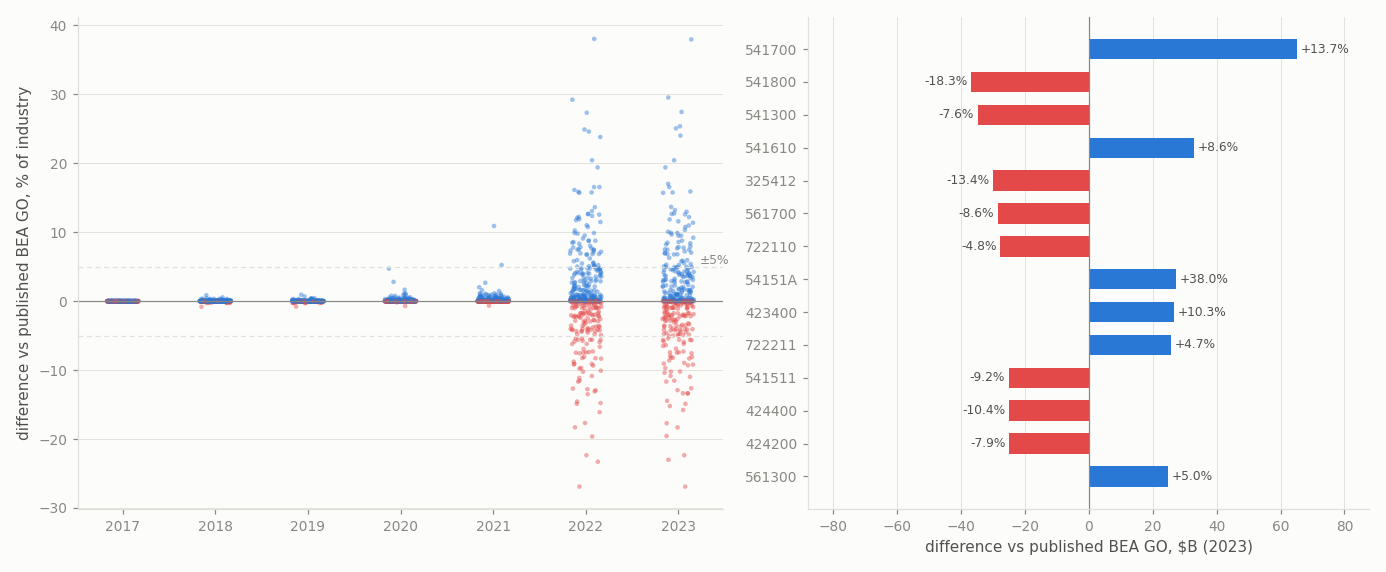
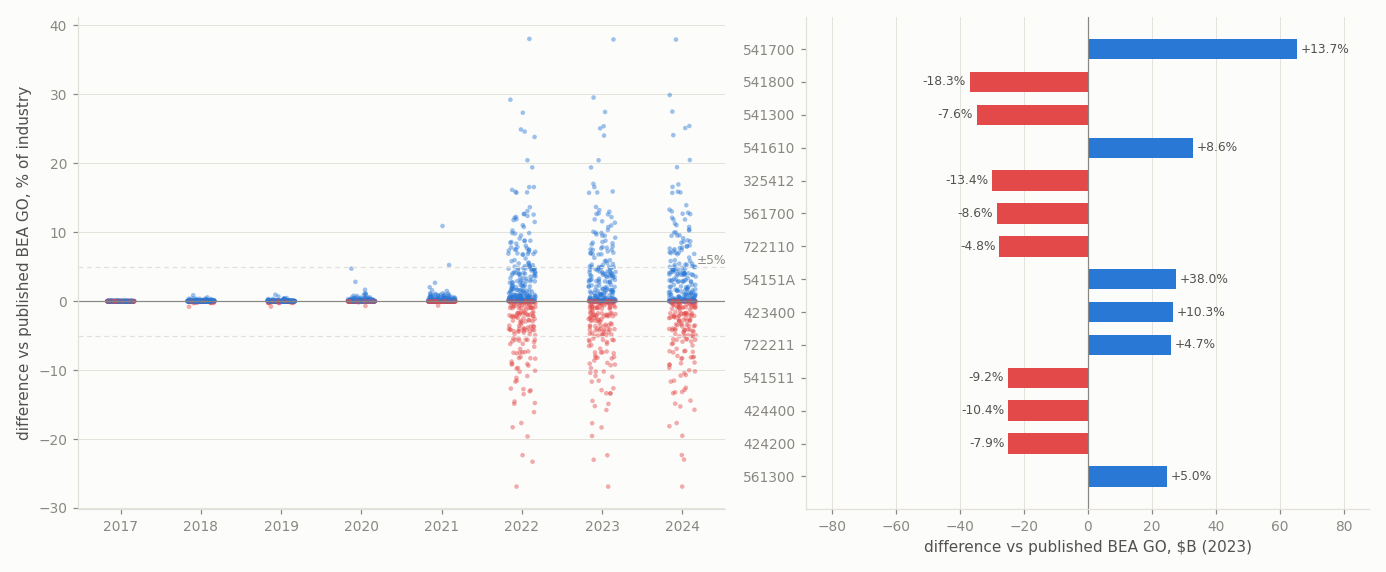
docs(report): carry the Phase 1 report through 2024
The span the report describes is now 2017-2024. Every number here is
measured, not carried: the two section-year spans that bounded the
diagnostics at 2023 are lifted, and the figures and tables are regenerated.

Section 2, the annual comparison to the published summary tables, gains 2024
and two figures. Supply lands at 98.4% coverage and 36.3% accuracy against
2023's 98.4% and 35.9%; Use at 98.7% and 6.2% against 98.6% and 6.3%; grand
totals off by 0.017% and 0.015%. The newest year is the strongest evidence
that 2022's ~1% spread was census conditioning rather than drift - 2024 sits
two years further from the anchor and lands at a sixtieth of 2022's total
difference.

Section 3, industry output, gains 2024 and its figure is regenerated to
include the year. The weighted difference is 2.10% against 2023's 2.11%, and
the named industries are the same ones in the same direction: scientific R&D
+13.9%, advertising -18.1%, architectural and engineering -7.4%,
pharmaceutical preparations -13.3%, other computer services +38.0%. A gap
that keeps its size and its members across three years is a standing
disagreement about the detail mix, not an accumulating error - which is the
distinction the final column of that table exists to make, and against the
census-conditioned panel 2024 sits at 0.06%.

Section 4's production-gate row now reads seven years rather than six.

Section 7 records what closed the span and what it cost: the 2024 AIES was
[…]

diff --git a/bedrock/analysis/nowcasting/sections.py b/bedrock/analysis/nowcasting/sections.py
@@ -1128,11 +1128,11 @@ SUPPLY_SUMMARY_SUT = Section(
     row_axis='summary_commodity',
     column_axis='summary_industry_or_bridge',
     tolerance=Tolerance(rtol=0.01, atol=ROUNDING_ATOL, ramp=0.25),
-    years=tuple(range(2017, 2024)),
+    years=tuple(range(2017, 2025)),
     reference=summary_supply_sut_reference,
     candidate=summary_supply_candidate,
     note=(
-        'Annual, 2017-2023: the newest balanced detail Supply on disk, rolled '
+        'Annual, 2017-2024: the newest balanced detail Supply on disk, rolled '
         'up on the taxonomy crosswalks, against the published summary Supply '
         'for the same year. The balance held its own observed aggregates, not '
         'every published summary cell, so close-not-exact is the expectation '
@@ -1149,11 +1149,11 @@ USE_SUMMARY_SUT = Section(
     row_axis='summary_commodity_or_va',
     column_axis='summary_industry_or_fd',
     tolerance=Tolerance(rtol=0.01, atol=ROUNDING_ATOL, ramp=0.25),
-    years=tuple(range(2017, 2024)),
+    years=tuple(range(2017, 2025)),
     reference=summary_use_sut_reference,
     candidate=summary_use_candidate,
     note=(
-        'Annual, 2017-2023: the newest balanced detail Use SUT on disk, '
+        'Annual, 2017-2024: the newest balanced detail Use SUT on disk, '
         'rolled up on the taxonomy crosswalks (final demand by its four-'
         'character summary code, value added onto the workbook codes), '
         'against the published summary Use SUT. Both sides carry the '

diff --git a/bedrock/analysis/nowcasting/go_vs_nowcast_mut.py b/bedrock/analysis/nowcasting/go_vs_nowcast_mut.py
@@ -37,7 +37,7 @@ from bedrock.transform.iot.derived_intermediate_and_value_added import (
 from bedrock.utils.config.settings import FBS_DIR
 
 _B = 1e9
-YEARS = tuple(range(2017, 2024))
+YEARS = tuple(range(2017, 2025))
 
 #: Divergences below both of these are reported as agreement, not difference.
 RELATIVE_FLOOR = 0.01

diff --git a/bedrock/analysis/nowcasting/progress_report.md b/bedrock/analysis/nowcasting/progress_report.md
@@ -1,9 +1,9 @@
 # Nowcasting Phase 1 Report
 
-*Updated 2 September 2026*
+*Updated 3 September 2026*
 
 The nowcast builds annual US input-output tables — Supply and Use tables,
-then Make-Use tables before and after redefinitions — for 2017 through 2023
+then Make-Use tables before and after redefinitions — for 2017 through 2024
 at BEA detail level (402 commodities × 402 industries), from primary annual
 sources rather than by carrying the 2017 benchmark structure forward. This
 report is the standing record of how close those tables are to every
@@ -181,6 +181,7 @@ summary tables, per year. Accuracy is the share of populated cells within
 | 2021 | 98.1% | 17.5% | 99.1% | 6.9% | 0.340% | 0.586% |
 | 2022 | 98.4% | 12.0% | 98.7% | 6.3% | **1.033%** | **1.038%** |
 | 2023 | 98.4% | 35.9% | 98.6% | 6.3% | 0.017% | 0.016% |
+| 2024 | 98.4% | 36.3% | 98.7% | 6.2% | 0.017% | 0.015% |
 
 Three things the span says. **Coverage holds at ~99% every year** — the
 nowcast populates what the published tables populate. **Cell-level
@@ -188,7 +189,10 @@ agreement decays with distance from the anchor**, which is two real
 estimates diverging rather than one degrading: our interior moves on census
 and survey evidence, the published tables move on BEA's own methods.
 **Grand totals stay within 0.07% through 2019, spread to ~1% in 2022** —
-the census-conditioning year — **and close back to 0.02% at 2023.**
+the census-conditioning year — **and close back to 0.02% at 2023 and
+2024.** The newest year is the strongest evidence that the 2022 spread was
+conditioning rather than drift: 2024 is two years further from the anchor
+than 2022 and lands at a sixtieth of its total difference.
 
 ![Supply summary 2017](images/supply_summary_sut_2017.png)
 
@@ -261,6 +265,16 @@ year, and the widest divergence of the span. Coverage 98.4%, accuracy
 *Figure 24. Use at summary vs published, 2023. Coverage 98.6%, accuracy
 6.3%.*
 
+![Supply summary 2024](images/supply_summary_sut_2024.png)
+
+*Figure 25. Supply at summary vs published, 2024 — the first year built on
+the 2024 Annual Integrated Economic Survey. Coverage 98.4%, accuracy 36.3%.*
+
+![Use summary 2024](images/use_summary_sut_2024.png)
+
+*Figure 26. Use at summary vs published, 2024. Coverage 98.7%, accuracy
+6.2%.*
+
 ## 3. Industry Output Against the Published Series
 
 Industry output computed from the nowcast tables (Make-table row sums,
@@ -270,10 +284,10 @@ to hit. The two comparisons separate deliberate census conditioning from
 drift: a year can sit 2% off the published series while sitting 0.2% from
 its own target panel. Distribution statistics are over industries the
 published series carries at $100M or more. Table 3 shows the span; Figure
-25 shows the industry-level structure.
+27 shows the industry-level structure.
 
 *Table 3. Nowcast industry output vs the published BEA detail gross-output
-series, 2017-2023. Weighted difference is the sum of absolute per-industry
+series, 2017-2024. Weighted difference is the sum of absolute per-industry
 gaps over total output.*
 
 | year | nowcast $B | published $B | total diff | weighted diff | median \|diff\| | max \|diff\| (industry) | industries >5% off | vs target panel |
@@ -285,29 +299,35 @@ gaps over total output.*
 | 2021 | 41,902 | 41,833 | +0.17% | 0.19% | 0.01% | 10.9% (`S00201`) | 2 | 0.19% |
 | 2022 | 46,706 | 46,611 | +0.20% | **2.20%** | **2.26%** | **38.1%** (`54151A`) | **118** | 0.23% |
 | 2023 | 48,558 | 48,540 | +0.04% | **2.11%** | **2.24%** | **38.0%** (`54151A`) | **112** | 0.06% |
+| 2024 | 50,754 | 50,737 | +0.03% | **2.10%** | **2.23%** | **38.0%** (`54151A`) | **116** | 0.06% |
 
 **The story splits at 2022, and both halves are the intended behaviour.**
 Through 2021 the nowcast tracks the published series to 0.06-0.19% weighted
 — the median industry is within 0.01% — and the only notable outlier is
-state-and-local transit, a pandemic-recovery disagreement. In 2022-2023 the
+state-and-local transit, a pandemic-recovery disagreement. From 2022 the
 weighted difference jumps to ~2.2% with over a hundred industries more than
 5% apart: the 2022 Economic Census conditioning, under which the detail mix
 follows the census rather than the carried-forward 2017 split. The final
 column proves the distinction — against the census-conditioned panel, every
-year stays at or under 0.23%. The largest 2023 divergences are the census
-corrections by name: scientific R&D services +13.7% (+$65B), advertising
-−18.3%, architectural and engineering −7.6%, pharmaceutical preparations
-−13.4%; the largest relative move is other computer services including
-facilities management at +38%.
+year stays at or under 0.23%.
+
+⚠ **2024 does not add drift — it repeats 2022's correction.** Its weighted
+difference is 2.10% against 2023's 2.11%, and the named industries are the
+same ones in the same direction: scientific R&D services +13.9% (+$67B),
+advertising −18.1%, architectural and engineering −7.4%, pharmaceutical
+preparations −13.3%, with other computer services including facilities
+management again the largest relative move at +38%. A gap that stays the
+same size and keeps the same members over three years is a standing
+disagreement about the detail mix, not an accumulating error.
 
 ![Industry output vs the published series](images/go_vs_nowcast_mut.png)
 
-*Figure 25. Nowcast industry output vs the published BEA gross-output
+*Figure 27. Nowcast industry output vs the published BEA gross-output
 series. Left: every scored industry's percent difference, one jittered
 column per year — blue above the published series, red below, dashed guides
 at ±5%. The 2017-2021 columns sit flat at zero; the 2022 fan-out is the
-census conditioning arriving, and 2023 keeps its shape. Right: the largest
-2023 divergences in dollars, with the percent difference in each label —
+census conditioning arriving, and 2023 and 2024 keep its shape. Right: the largest
+2024 divergences in dollars, with the percent difference in each label —
 professional services, wholesale, and pharmaceuticals, the industries where
 the census disagrees most with the carried-forward detail mix.*
 
@@ -333,7 +353,7 @@ on every year's build and refuse to save on breach.*
 | Import matrix row control | exact at both published benchmarks |
 | Margins layered identities (basic → producer → purchaser) | close at $0.00 per cell at 2017, 2012, and 2012 on the 2017 anchor |
 | Cost of the frozen 2017 margin rates, measured at 2012 | 2.06% of goods mass; 25.0% of margin-row placement |
-| Production gates, all six years 2018-2023 | buyer totals preserved, margin mass conserved to $0.000M, value-added collapse exact, import allocation exact — all at a $1M bar |
+| Production gates, all seven years 2018-2024 | buyer totals preserved, margin mass conserved to $0.000M, value-added collapse exact, import allocation exact — all at a $1M bar |
 
 All four tables are stored per year, before and after redefinitions, in the
 shared artifact store, and the model build reads them through a configurable
@@ -407,7 +427,7 @@ separately for exactly that reason.
 ## 7. Conclusions and Next Steps
 
 **The pipeline is complete and its products exist.** Annual detail Supply
-and Use tables for 2017-2023 balance exactly under the accounting
+and Use tables for 2017-2024 balance exactly under the accounting
 identities; each year converts to the four Make-Use products before and
 after redefinitions; all artifacts are stored and loadable by the model
 build. Every conversion rule that could be graded on a published benchmark
@@ -423,6 +443,18 @@ deliberate: from 2022, the detail industry mix follows the 2022 Economic
 Census, an observation the published series has not yet incorporated, with
 over a hundred industries corrected by more than 5%.
 
+**2024 closed the span.** The Annual Integrated Economic Survey published
+its 2024 reference year on 3 September 2026, which was the last outstanding
+source: it carries the wholesale and retail gross margin, trucking and
+pipeline freight revenue, and the inventories the trade margin, the
+transport margin and the change-in-inventories column were waiting on.
+Taking it was not a drop-in — Census had retired the API path the extracts
+used, for every year, and moved the gross-margin measure to a different
+dataset — but the year it produced is continuous with its predecessors on
+every diagnostic in this report: coverage and accuracy within a few tenths
+of 2023, grand totals within 0.02%, and an industry-output gap that repeats
+2022's census correction rather than growing.
+
 **Next steps.**
 
 1. **Diagnose what the balance moved.** The seed-versus-balanced figure
@@ -436,7 +468,16 @@ over a hundred industries corrected by more than 5%.
 3. **Refine the two measured conversion limitations**: the import valuation
    basis for nowcast years, and the year-specific split of sales taxes out
    of trade margins.
-4. **Phase 2**: the 2025 tables after BEA's annual update, a retrospective
-   refresh of 2018-2024 on the revised vintage, and the reallocation of the
-   remaining government enterprises into the private industries they
+4. **Phase 2 — review, refinement and documentation.** With the span
+   complete there is no year left to add before BEA's annual update, so the
+   work changes kind: the accuracy of allocations inside columns whose
+   totals are already right, the balance and validation debt (the
+   uncalibrated balancing weights, the margin columns that stop netting to
+   zero under the balance, the 2017 benchmark replay), and a written method
+   statement for the delivered series.
+
+5. **Deferred, evaluated separately**: the 2025 tables after BEA's annual
+   update, which also revises 2018-2024 retrospectively and so means
+   re-running the series rather than appending a year; and the reallocation
+   of the remaining government enterprises into the private industries they
    produce in.
